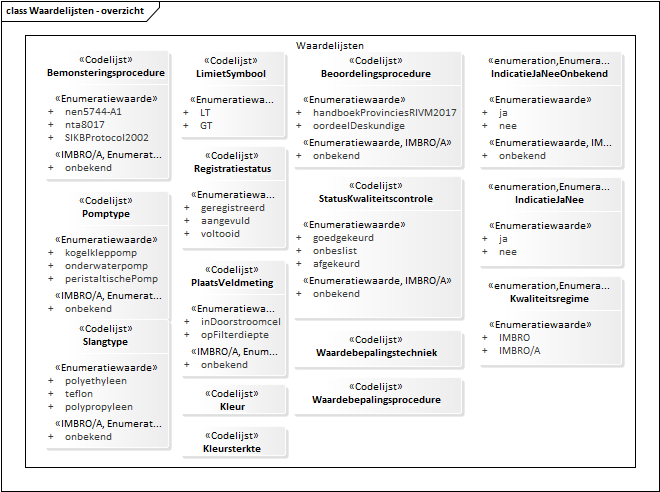
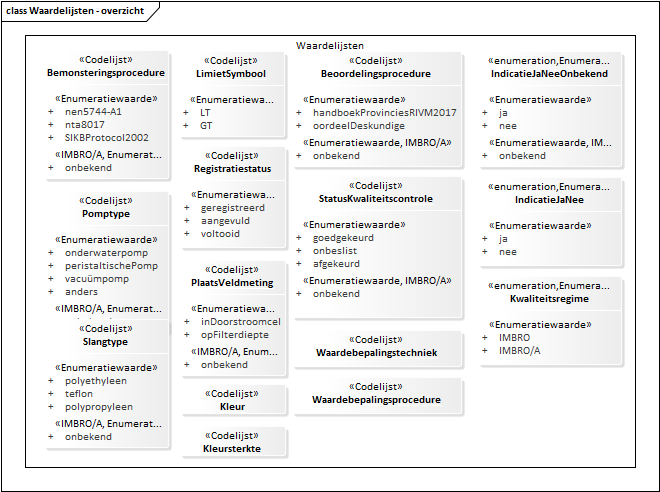
Conceptualmodel-GrondwatersamenstellingsonderzoekGAR-0.9.1-2-20190328-20190715-085400

Changed region(s): [[0.0606, 0.4878, 0.2424, 0.6402]]

diff --git a/data/GAR-cat.html b/data/GAR-cat.html
@@ -2,7 +2,7 @@
 <section id="cat" class="normative" level="1">
    <h2>Catalogus</h2>
    <p><b>Deze tekst is normatief.</b>
-      <!--Conceptualmodel-GrondwatersamenstellingsonderzoekGAR-0.9.1-2-20190328-20190711-114211 imvertor 1.53.2--></p>
+      <!--Conceptualmodel-GrondwatersamenstellingsonderzoekGAR-0.9.1-2-20190328-20190715-085400 imvertor 1.53.2--></p>
    <div class="imageinfo overview"><img src="data/Images/EAID_BBDCFEE2_BB5A_4b62_99F2_796C8F526D8F.png" usemap="#imagemap-EAID_BBDCFEE2_BB5A_4b62_99F2_796C8F526D8F"><map name="imagemap-EAID_BBDCFEE2_BB5A_4b62_99F2_796C8F526D8F">
          <area shape="rect" coords="25,873,333,654" alt="" href="#graph_EAID_D2FEBBF9_3FD7_46ca_BE79_E41A66C40AE0">
          <area shape="rect" coords="963,368,1161,279" alt="" href="#graph_EAID_011FAD14_41B1_4602_8F25_0AD94DBE2504">
@@ -27,7 +27,7 @@
          <area shape="rect" coords="291,414,462,377" alt="" href="#graph_EAID_E4C30D1C_AE4C_4e32_9F8D_AB4C80BC2DC5">
          <area shape="rect" coords="291,367,462,330" alt="" href="#graph_EAID_252793A3_4ADD_44fd_B0CF_CDE66BE8E25D">
          <area shape="rect" coords="179,248,286,146" alt="" href="#graph_EAID_104D1298_880E_4ae4_AB27_E1DF1AD62CDB">
-         <area shape="rect" coords="43,320,169,191" alt="" href="#graph_EAID_6D75EE04_4F2A_45c7_AAF6_281FE776BE4E">
+         <area shape="rect" coords="43,333,169,191" alt="" href="#graph_EAID_6D75EE04_4F2A_45c7_AAF6_281FE776BE4E">
          <area shape="rect" coords="43,179,169,50" alt="" href="#graph_EAID_70E0DAEF_4FE0_4902_B2F1_17870B44D732"></map><p><b>Waardelijsten - overzicht</b></p>
    </div>
    <div class="imageinfo overview"><img src="data/Images/EAID_A1844355_72B0_466d_B8D4_6DD92281E08D.png" usemap="#imagemap-EAID_A1844355_72B0_466d_B8D4_6DD92281E08D"><map name="imagemap-EAID_A1844355_72B0_466d_B8D4_6DD92281E08D"></map><p><b>Datatypen - overzicht</b></p>
@@ -1486,7 +1486,9 @@
                   </td>
                   <td>
                      
-                     <p xmlns="http://www.w3.org/1999/xhtml" xmlns:html="http://www.w3.org/1999/xhtml" xmlns:imvert="http://www.imvertor.org/schema/system">De aanduiding die aangeeft of de slang nieuw is dan wel al eerder is gebruikt.</p>
+                     <p xmlns="http://www.w3.org/1999/xhtml" xmlns:html="http://www.w3.org/1999/xhtml" xmlns:imvert="http://www.imvertor.org/schema/system">De aanduiding die aangeeft of de slang die gebruikt wordt voor het oppompen van het
+                        grondwater nieuw is dan wel al eerder is gebruikt.
+                     </p>
                      
                   </td>
                   <td>
@@ -4556,9 +4558,11 @@
                         <p xmlns="http://www.w3.org/1999/xhtml" xmlns:html="http://www.w3.org/1999/xhtml" xmlns:imvert="http://www.imvertor.org/schema/system">De waarde wordt uitgedrukt in een meeteenheid. De meeteenheid is afhankelijk van de
                            waarde van het attribuut <em>parameter</em>. De aan te leveren meeteenheid is vastgelegd in de referentietabel <em>Parameterlijst</em>. Alleen een veelvoud of een deel van de eenheid mag voorkomen. De prefix, het voorvoegsel
                            van de eenheid in de parameterlijst mag dus afwijken. Staat er bijvoorbeeld ug/l in
-                           de parameterlijst, dan is mg/l ook toegestaan. 
-                           Een dimensieloze waarde heeft een meeteenheid 1 (cijfer 1).
+                           de parameterlijst, dan is mg/l ook toegestaan of als mS/m in de parameterlijst staat,
+                           is uS/cm ook toegestaan.
                         </p>
+                        
+                        <p xmlns="http://www.w3.org/1999/xhtml" xmlns:html="http://www.w3.org/1999/xhtml" xmlns:imvert="http://www.imvertor.org/schema/system">Een dimensieloze waarde heeft een meeteenheid 1 (cijfer 1).</p>
                         
                      </td>
                   </tr>
@@ -4581,6 +4585,16 @@
                   <tr>
                      <th>Indicatie authentiek</th>
                      <td>Authentiek</td>
+                  </tr>
+                  <tr>
+                     <th>Regels</th>
+                     <td>
+                        
+                        <p xmlns="http://www.w3.org/1999/xhtml" xmlns:html="http://www.w3.org/1999/xhtml" xmlns:imvert="http://www.imvertor.org/schema/system">De meeteenheid bij het attribuut mag afwijken van de eenheid van de betreffende parameter
+                           in de parameterlijst wanneer alleen de prefix van de eenheid afwijkt.
+                        </p>
+                        
+                     </td>
                   </tr>
                   <tr>
                      <th>Formaat</th>
@@ -5385,7 +5399,9 @@
                      <th>Definitie</th>
                      <td>
                         
-                        <p xmlns="http://www.w3.org/1999/xhtml" xmlns:html="http://www.w3.org/1999/xhtml" xmlns:imvert="http://www.imvertor.org/schema/system">De aanduiding die aangeeft of de slang nieuw is dan wel al eerder is gebruikt.</p>
+                        <p xmlns="http://www.w3.org/1999/xhtml" xmlns:html="http://www.w3.org/1999/xhtml" xmlns:imvert="http://www.imvertor.org/schema/system">De aanduiding die aangeeft of de slang die gebruikt wordt voor het oppompen van het
+                           grondwater nieuw is dan wel al eerder is gebruikt.
+                        </p>
                         
                      </td>
                   </tr>
@@ -6066,12 +6082,14 @@
                            waarde niet aanlevert, wordt in dit attribuut de rapportagegrens geregistreerd.
                         </p>
                         
-                        <p xmlns="http://www.w3.org/1999/xhtml" xmlns:html="http://www.w3.org/1999/xhtml" xmlns:imvert="http://www.imvertor.org/schema/system">De waarde wordt uitgedrukt in een meeteenheid. De meeteenheid is afhankelijk van de
-                           waarde van het attribuut <em>parameter</em>. De aan te leveren meeteenheid is vastgelegd in de referentietabel <em>Parameterlijst</em>. Alleen een veelvoud of een deel van de eenheid mag voorkomen. De prefix, het voorvoegsel
+                        <p xmlns="http://www.w3.org/1999/xhtml" xmlns:html="http://www.w3.org/1999/xhtml" xmlns:imvert="http://www.imvertor.org/schema/system">De analysemeetwaarde wordt uitgedrukt in een meeteenheid. De meeteenheid is afhankelijk
+                           van de waarde van het attribuut <em>parameter</em>. De aan te leveren meeteenheid is vastgelegd in de referentietabel <em>Parameterlijst</em>. Alleen een veelvoud of een deel van de eenheid mag voorkomen. De prefix, het voorvoegsel
                            van de eenheid in de parameterlijst mag dus afwijken. Staat er bijvoorbeeld ug/l in
-                           de parameterlijst, dan is mg/l ook toegestaan. 
-                           Een dimensieloze waarde heeft een meeteenheid 1 (cijfer 1).
+                           de parameterlijst, dan is mg/l ook toegestaan of als mS/m in de parameterlijst staat,
+                           is uS/cm ook toegestaan.
                         </p>
+                        
+                        <p xmlns="http://www.w3.org/1999/xhtml" xmlns:html="http://www.w3.org/1999/xhtml" xmlns:imvert="http://www.imvertor.org/schema/system">Een dimensieloze waarde heeft een meeteenheid 1 (cijfer 1).</p>
                         
                         <p xmlns="http://www.w3.org/1999/xhtml" xmlns:html="http://www.w3.org/1999/xhtml" xmlns:imvert="http://www.imvertor.org/schema/system">Voor IMBRO/A gegevens kan het voorkomen dat de waarde van het gegeven ontbreekt. In
                            dat geval is er wel een limietsymbool aanwezig dat aangeeft dat er gemeten is en dat
@@ -6105,8 +6123,7 @@
                      <td>
                         
                         <p xmlns="http://www.w3.org/1999/xhtml" xmlns:html="http://www.w3.org/1999/xhtml" xmlns:imvert="http://www.imvertor.org/schema/system">De meeteenheid bij het attribuut mag afwijken van de eenheid van de betreffende parameter
-                           in de parameterlijst wanneer alleen de prefix afwijkt. Bijvoorbeeld: mS/m staat in
-                           de parameterlijst, uS/cm is ook toegestaan.
+                           in de parameterlijst wanneer alleen de prefix van de eenheid afwijkt.
                         </p>
                         
                      </td>
@@ -6115,7 +6132,9 @@
                      <th>Regels IMBRO/A</th>
                      <td>
                         
-                        <p xmlns="http://www.w3.org/1999/xhtml" xmlns:html="http://www.w3.org/1999/xhtml" xmlns:imvert="http://www.imvertor.org/schema/system">De waarde van het attribuut mag ontbreken wanneer het limietsymbool aanwezig is.</p>
+                        <p xmlns="http://www.w3.org/1999/xhtml" xmlns:html="http://www.w3.org/1999/xhtml" xmlns:imvert="http://www.imvertor.org/schema/system">De waarde van het attribuut mag ontbreken wanneer het attribuut limietsymbool aanwezig
+                           is.
+                        </p>
                         
                      </td>
                   </tr>
@@ -6170,9 +6189,9 @@
                      <td>
                         
                         <p xmlns="http://www.w3.org/1999/xhtml" xmlns:html="http://www.w3.org/1999/xhtml" xmlns:imvert="http://www.imvertor.org/schema/system">Het gegeven is alleen aanwezig wanneer het gemeten gehalte ofwel lager is dan de kleinste
-                           waarde van het gehalte dat wordt gerapporteerd aan de opdrachtgever, ofwel groter
-                           is dan de hoogste waarde die nog met een bepaalde nauwkeurigheid kan worden vastgesteld
-                           en wordt gerapporteerd aan de opdrachtgever.
+                           waarde dat wordt gerapporteerd aan de opdrachtgever, ofwel groter is dan de hoogste
+                           waarde die nog met een bepaalde nauwkeurigheid kan worden vastgesteld en wordt gerapporteerd
+                           aan de opdrachtgever.
                         </p>
                         
                      </td>
@@ -6250,10 +6269,13 @@
                            Waarden boven de rapportagegrens worden gerapporteerd aan de opdrachtgever. Bij een
                            gemeten gehalte onder deze grenswaarde wordt de grenswaarde gerapporteerd aan de opdrachtgever.
                            
-                           De rapportagegrens wordt uitgedrukt in een meeteenheid. De meeteenheid is afhankelijk
-                           van de waarde van het attribuut <em>parameter</em>. De aan te leveren meeteenheid is bepaald in de referentietabel <em>Parameterlijst</em>. Alleen de prefix van de eenheid mag afwijken van de eenheid die vermeld staat in
-                           de parameterlijst, staat er bijvoorbeeld ug/l in de parameterlijst, dan is mg/l ook
-                           toegestaan. 
+                        </p>
+                        
+                        <p xmlns="http://www.w3.org/1999/xhtml" xmlns:html="http://www.w3.org/1999/xhtml" xmlns:imvert="http://www.imvertor.org/schema/system">De rapportagegrens  wordt uitgedrukt in een meeteenheid. De meeteenheid is afhankelijk
+                           van de waarde van het attribuut <em>parameter</em>. De aan te leveren meeteenheid is vastgelegd in de referentietabel <em>Parameterlijst</em>. Alleen een veelvoud of een deel van de eenheid mag voorkomen. De prefix, het voorvoegsel
+                           van de eenheid in de parameterlijst mag dus afwijken. Staat er bijvoorbeeld ug/l in
+                           de parameterlijst, dan is mg/l ook toegestaan of als mS/m in de parameterlijst staat,
+                           is uS/cm ook toegestaan.
                            Een dimensieloze waarde heeft een meeteenheid 1 (cijfer 1).
                         </p>
                         
@@ -6384,7 +6406,7 @@
 <section id="lis" class="normative" level="1">
    <h2>Inhoud van waardenlijsten</h2>
    <p><b>Deze tekst is normatief.</b>
-      <!--Conceptualmodel-GrondwatersamenstellingsonderzoekGAR-0.9.1-2-20190328-20190711-114211 imvertor 1.53.2--></p><a class="anchor" name="graph_EAID_FEC2B1DD_E5C2_4c90_8B71_B69ADC431AB0"></a><a class="anchor" name="detail_class_Model_Parameterlijst"></a><section id="detail_class_Model_Parameterlijst" level="3">
+      <!--Conceptualmodel-GrondwatersamenstellingsonderzoekGAR-0.9.1-2-20190328-20190715-085400 imvertor 1.53.2--></p><a class="anchor" name="graph_EAID_FEC2B1DD_E5C2_4c90_8B71_B69ADC431AB0"></a><a class="anchor" name="detail_class_Model_Parameterlijst"></a><section id="detail_class_Model_Parameterlijst" level="3">
       <h3>Referentielijst inhoud Parameterlijst</h3>
       
       <table>
@@ -11328,16 +11350,14 @@
                <th>Definitie</th>
             </tr>
             <tr>
-               <td>kogelkleppomp</td>
-               <td>✔</td>
-               <td>✔</td>
-               <td></td>
-            </tr>
-            <tr>
                <td>onderwaterpomp</td>
                <td>✔</td>
                <td>✔</td>
-               <td></td>
+               <td>
+                  
+                  <p xmlns="http://www.w3.org/1999/xhtml" xmlns:html="http://www.w3.org/1999/xhtml" xmlns:imvert="http://www.imvertor.org/schema/system">Deze pomp wordt ook wel dompelpomp genoemd.</p>
+                  
+               </td>
             </tr>
             <tr>
                <td>peristaltischePomp</td>
@@ -11346,6 +11366,22 @@
                <td>
                   
                   <p xmlns="http://www.w3.org/1999/xhtml" xmlns:html="http://www.w3.org/1999/xhtml" xmlns:imvert="http://www.imvertor.org/schema/system">Deze pomp wordt ook wel slangenpomp genoemd.</p>
+                  
+               </td>
+            </tr>
+            <tr>
+               <td>vacuümpomp</td>
+               <td>✔</td>
+               <td>✔</td>
+               <td></td>
+            </tr>
+            <tr>
+               <td>anders</td>
+               <td>✔</td>
+               <td>✔</td>
+               <td>
+                  
+                  <p xmlns="http://www.w3.org/1999/xhtml" xmlns:html="http://www.w3.org/1999/xhtml" xmlns:imvert="http://www.imvertor.org/schema/system">Een ander pomptype zoals dat is beschreven in de bemonsteringsprocedure.</p>
                   
                </td>
             </tr>
